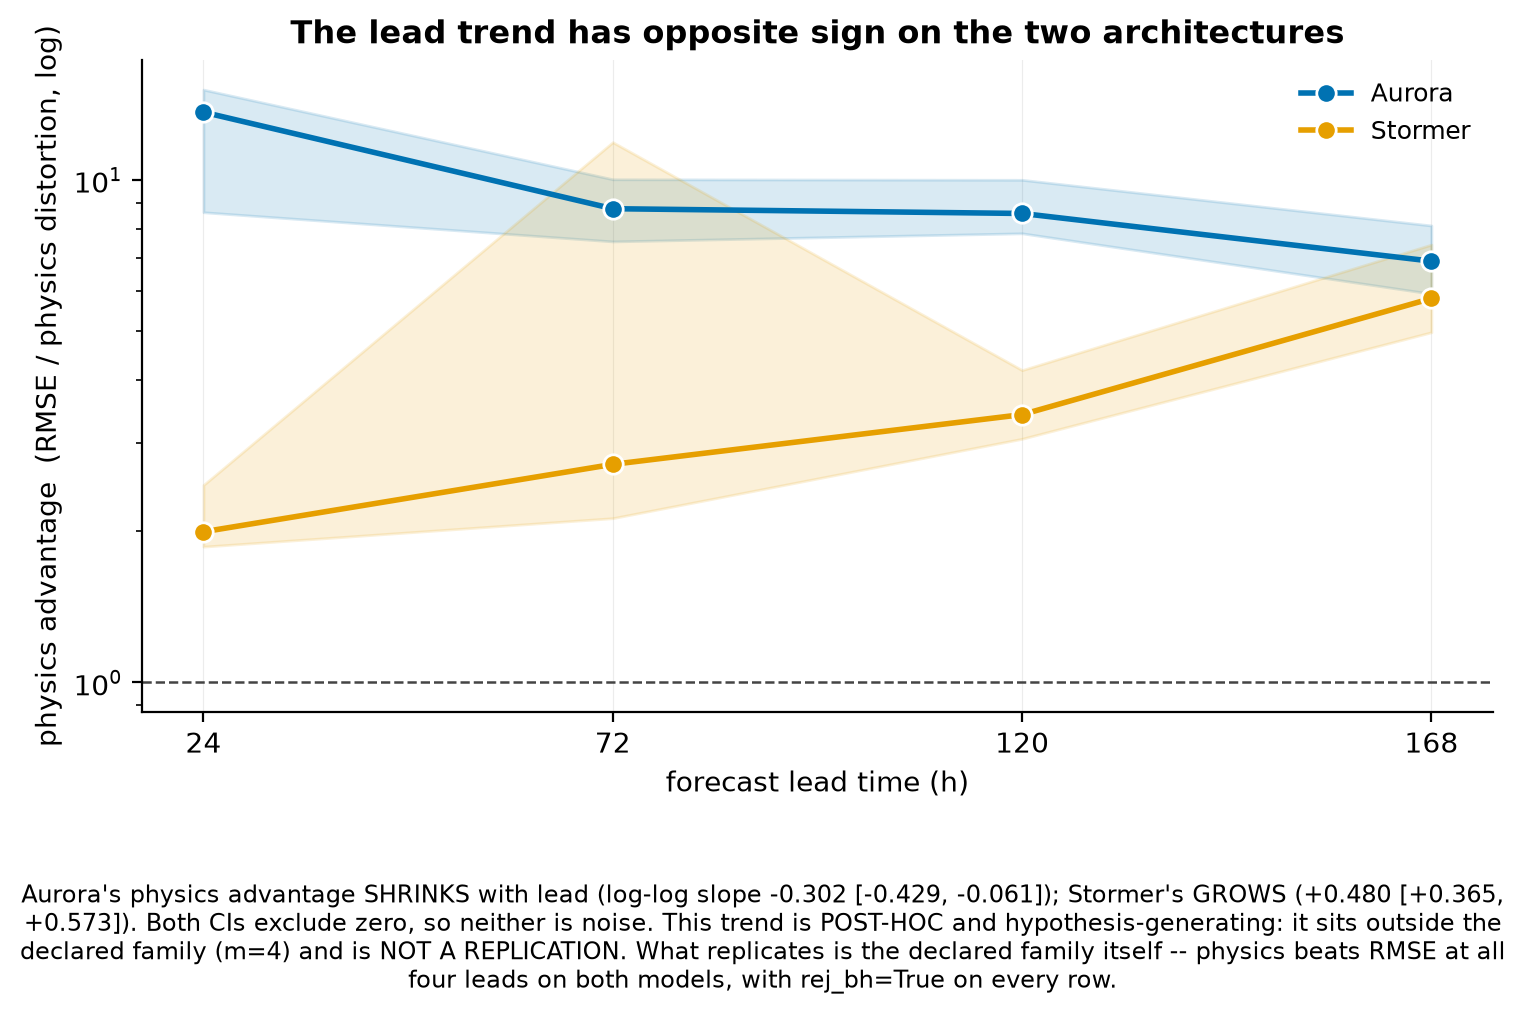
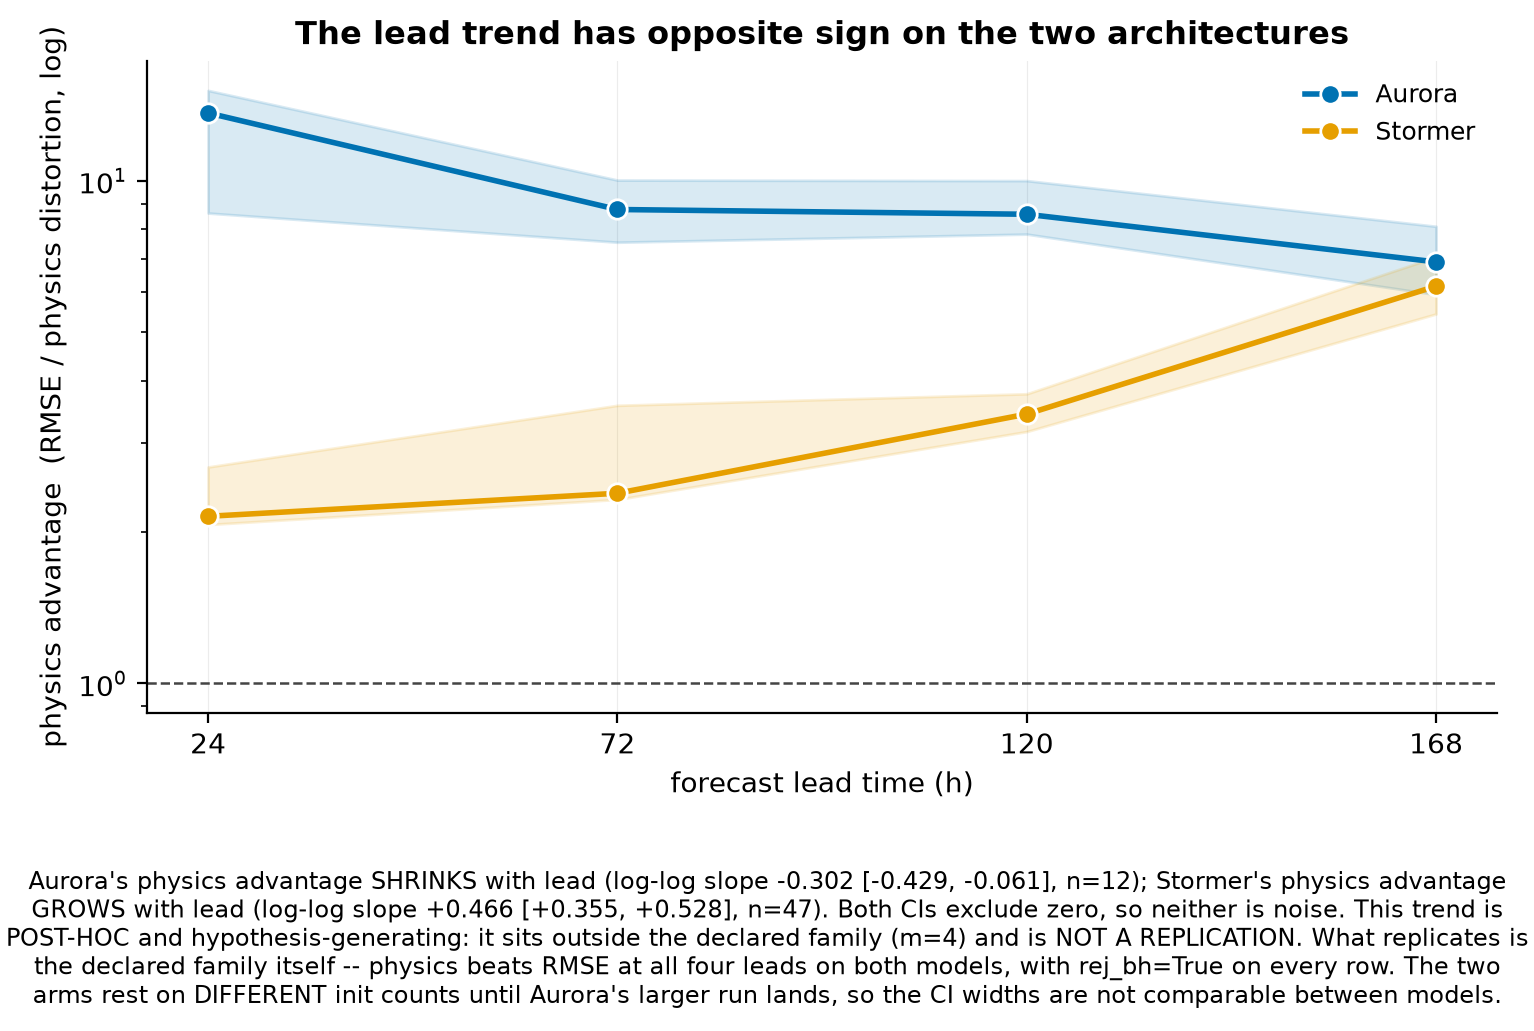
[Aurora] Added n48 harness results, regenerated figures

diff --git a/Aurora_Experiments/run_anticontrols.py b/Aurora_Experiments/run_anticontrols.py
@@ -36,9 +36,9 @@ def cost_excess(csv_path):
 def main(argv=None):
     ap = argparse.ArgumentParser(description=__doc__,
                                  formatter_class=argparse.RawDescriptionHelpFormatter)
-    ap.add_argument("--pt", default=os.path.join("harness_results_merged",
+    ap.add_argument("--pt", default=os.path.join("harness_results_n48",
                                                  "harness_results.pt"))
-    ap.add_argument("--outdir", default="harness_results_merged")
+    ap.add_argument("--outdir", default="harness_results_n48")
     ap.add_argument("--lead", type=int, default=120)
     ap.add_argument("--family", default="wind_balance")
     a = ap.parse_args(argv)

diff --git a/Aurora_Experiments/run_aurora_lead_robustness.py b/Aurora_Experiments/run_aurora_lead_robustness.py
@@ -17,9 +17,9 @@ LEADS = (24, 72, 120, 168)
 def main(argv=None):
     ap = argparse.ArgumentParser(description=__doc__.splitlines()[0],
                                  formatter_class=argparse.RawDescriptionHelpFormatter)
-    ap.add_argument("--pt", default=os.path.join("harness_results_merged",
+    ap.add_argument("--pt", default=os.path.join("harness_results_n48",
                                                  "harness_results.pt"))
-    ap.add_argument("--outdir", default="harness_results_merged")
+    ap.add_argument("--outdir", default="harness_results_n48")
     a = ap.parse_args(argv)
 
     pt = torch.load(a.pt, map_location="cpu", weights_only=False)
